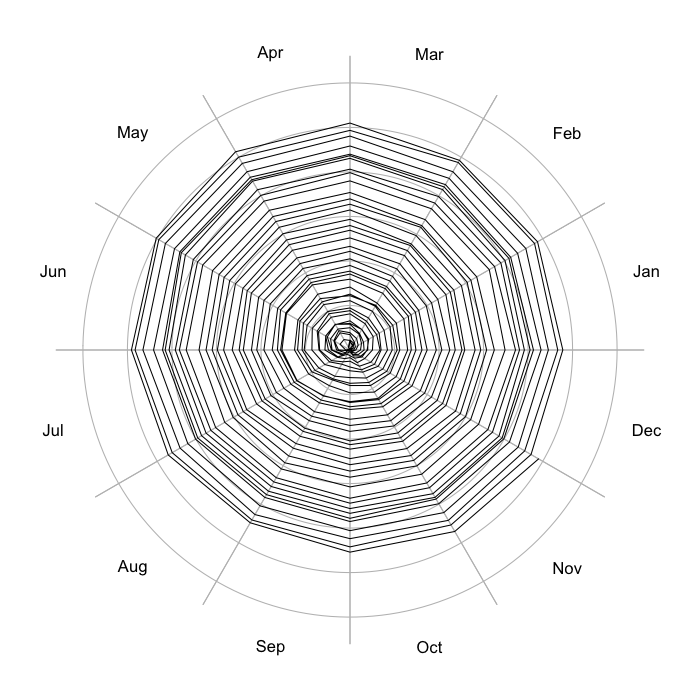
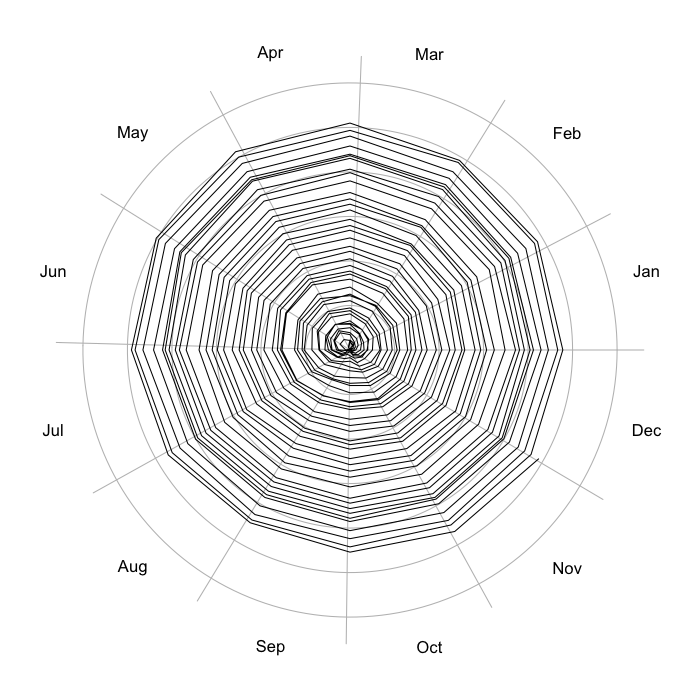
blog

diff --git a/_posts/2014-02-08-hodograph.md b/_posts/2014-02-08-hodograph.md
@@ -52,11 +52,13 @@ hodograph <- function(x, y, t, rings, ringlabels = TRUE, tcut = c("daily", "year
             ## month lines
             month <- c("Jan", "Feb", "Mar", "Apr", "May", "Jun", "Jul", "Aug", 
                 "Sep", "Oct", "Nov", "Dec")
+            day <- c(31, 28, 31, 30, 31, 30, 31, 31, 30, 31, 30, 31)
             rscale <- max(rings)
             for (m in 1:12) {
-                phi <- 2 * pi * (m - 1)/12
-                lines(rscale * 1.1 * cos(phi) * c(-1, 1), rscale * 1.1 * sin(phi) * 
-                  c(-1, 1), col = "gray")
+                ## boundaries are for non leap years
+                phi <- 2 * pi * (sum(day[1:m]) - day[1])/sum(day)
+                lines(rscale * 1.1 * cos(phi) * c(0, 1), rscale * 1.1 * sin(phi) * 
+                  c(0, 1), col = "gray")
                 phi <- 2 * pi * (0.5/12 + (m - 1)/12)
                 text(1.15 * rscale * cos(phi), 1.15 * rscale * sin(phi), month[m])
             }
